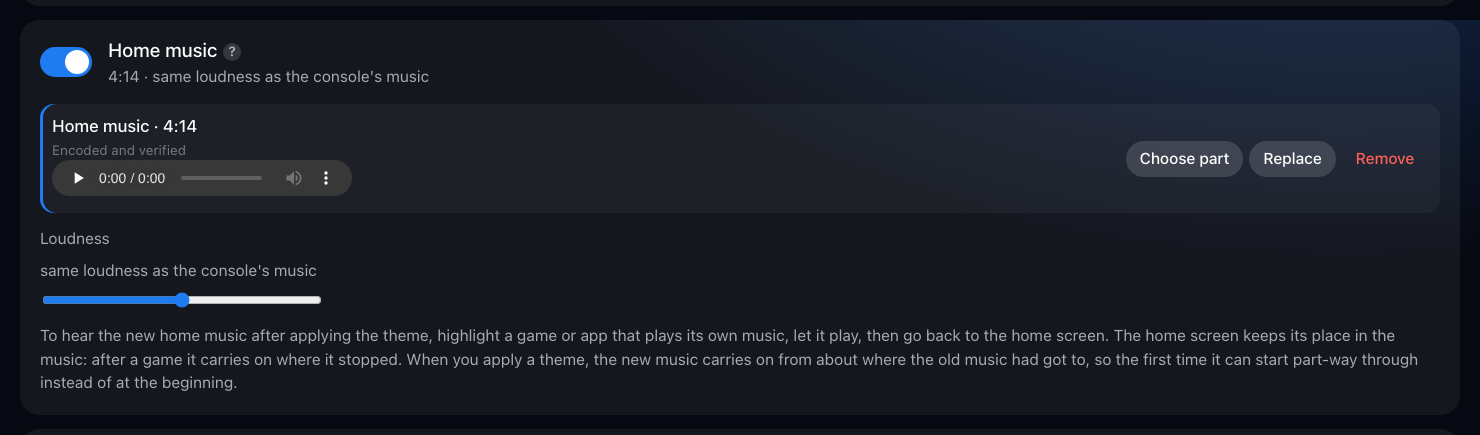
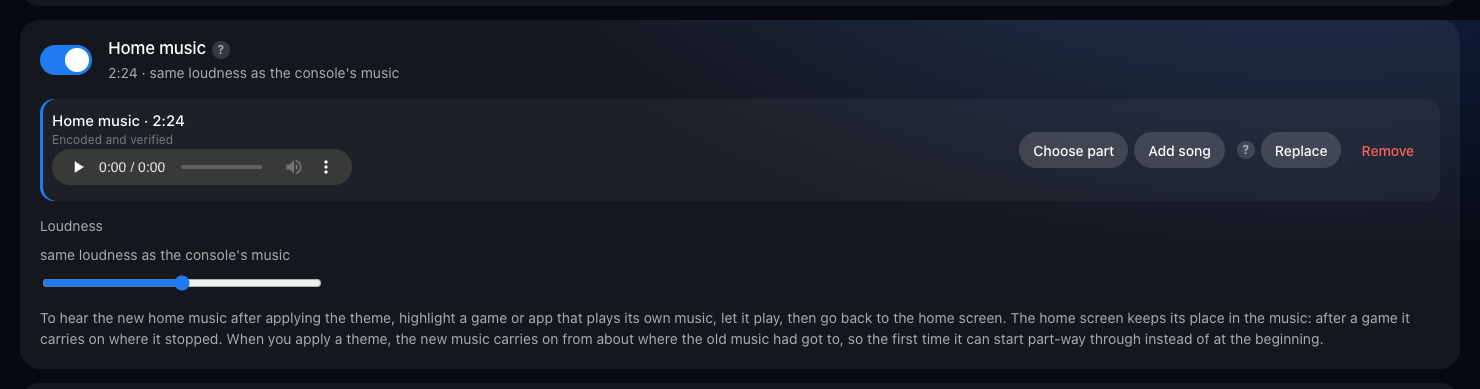
Docs: screenshots of the home music playlist
The playlist section with three songs and the last song's editor (its part
and the part that repeats) in the Playlists guide and the manager guide; the
one-song section shot again with its Add song button.

diff --git a/docs/home-music.md b/docs/home-music.md
@@ -75,8 +75,10 @@ everything else stays as the console's.
 
 A theme can play several songs instead of one (version 1.61 and later): they
 play one after another, each its own part, then start again from the first,
-or the last one keeps repeating. The console still plays one home music file; the manager puts the
-songs together into it.
+or the last one keeps repeating. The console still plays one home music file;
+the manager puts the songs together into it.
+
+![A playlist of three songs in the home music section](screenshots/home-music-playlist.png)
 
 1. **Add the first song** as in [Step by step](#step-by-step), and press
    **Use this**.
@@ -96,6 +98,9 @@ songs together into it.
    last song*. With the second, the last song's editor also has the part that
    repeats (at first, all of its part), like *Music part once, then the loop
    part repeats* for one song.
+
+   ![The last song's editor: its part, and the part that then repeats](screenshots/playlist-song.png)
+
 7. **Play** plays the whole playlist as the console will loop it; **Hear
    where it repeats** plays the seconds around the jump back.
 8. **Save**, then **Apply to console**, and hear it as in step 7 of [Step by

diff --git a/docs/manager.md b/docs/manager.md
@@ -161,6 +161,8 @@ The music the home screen plays. Add any audio file the browser can play
   use;
 - **Loudness**, relative to the console's own music, from -12 to +12 dB.
 
+![A playlist of three songs in the home music section](screenshots/home-music-playlist.png)
+
 The note at the bottom explains something the console does by itself: the
 home screen keeps its place in the music. After a game it carries on where it
 stopped, and when you apply a theme the new music carries on from about where
